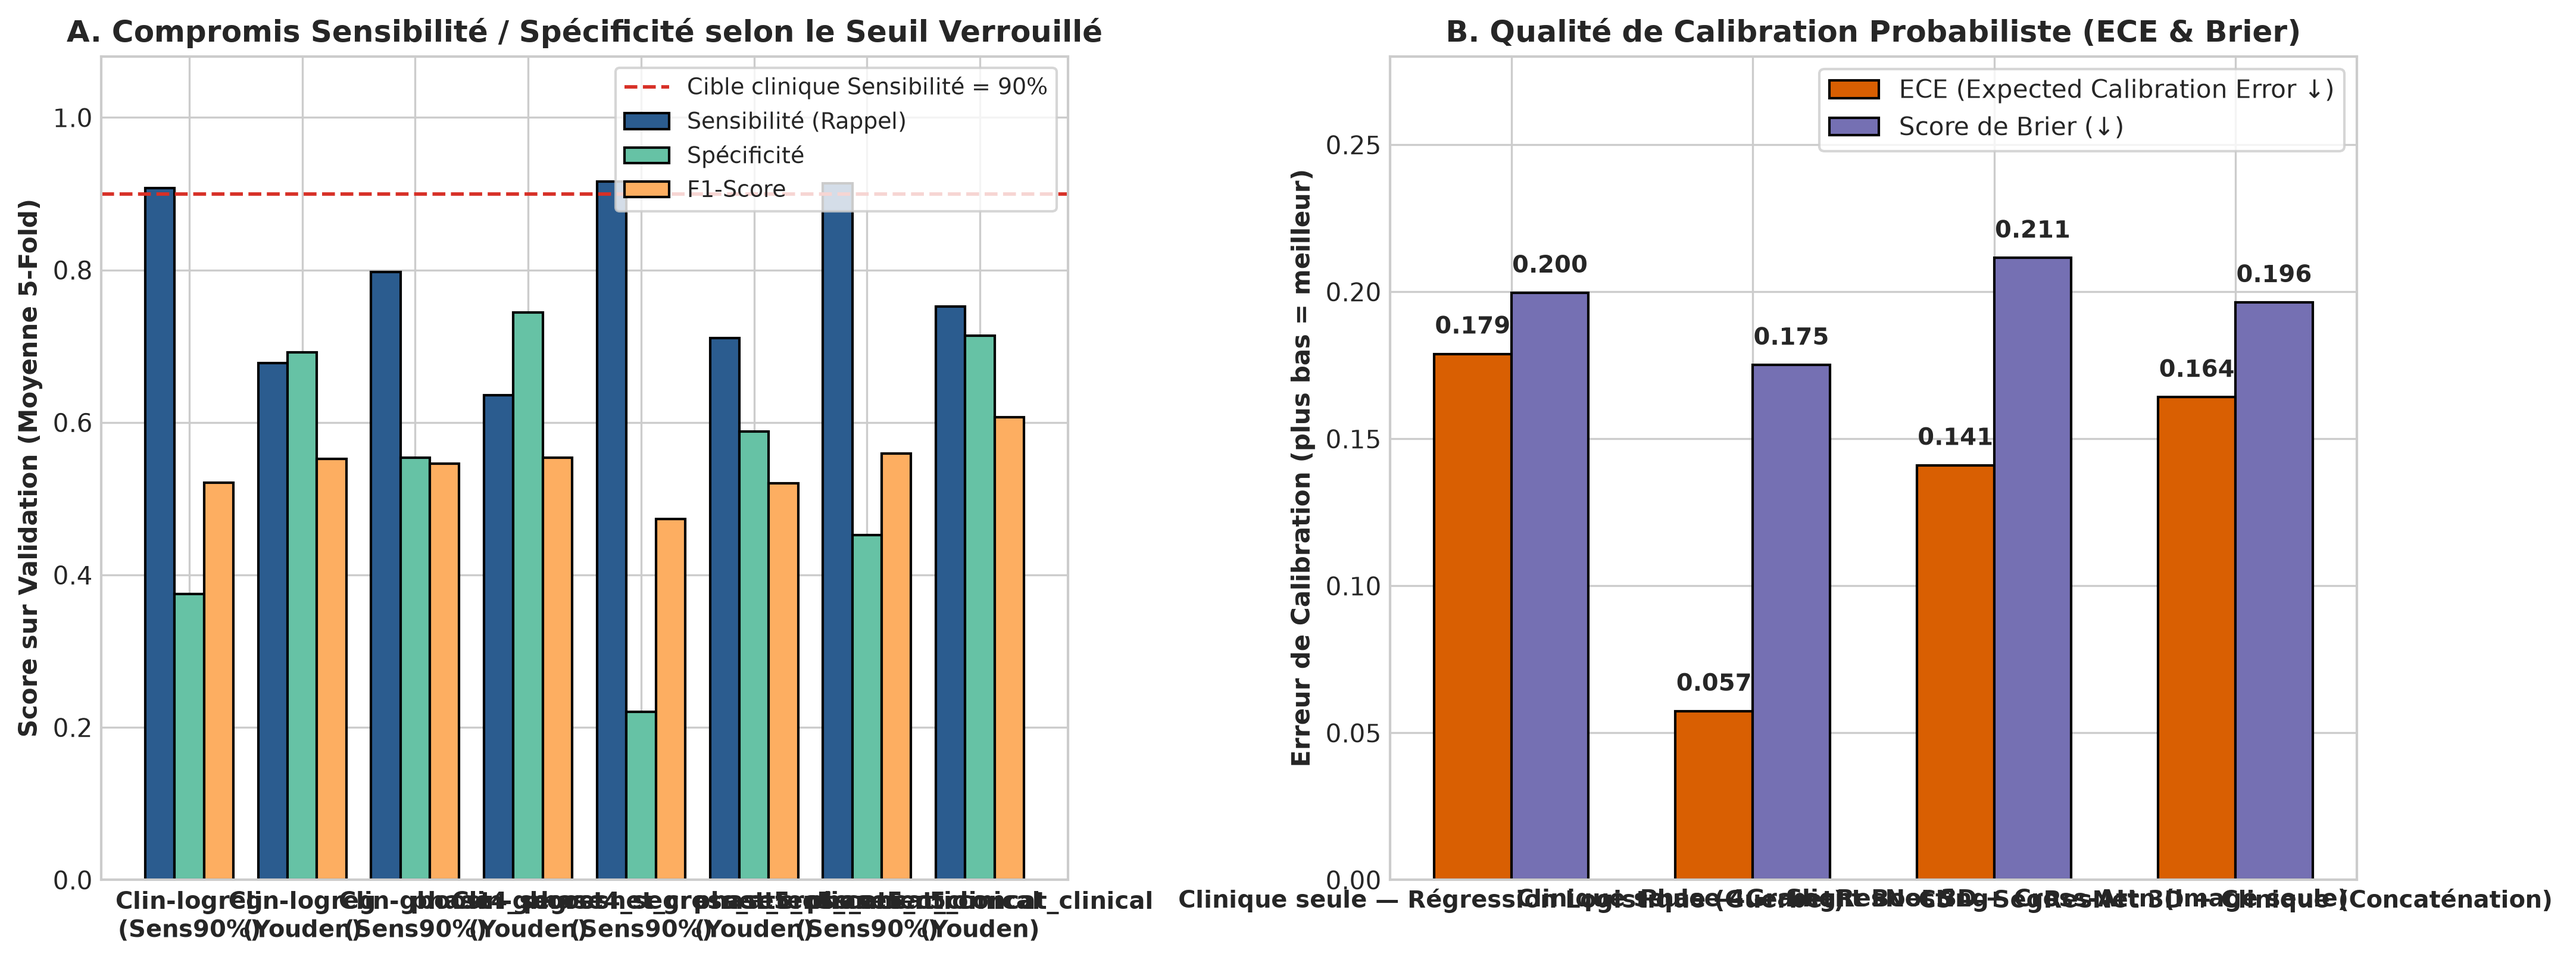
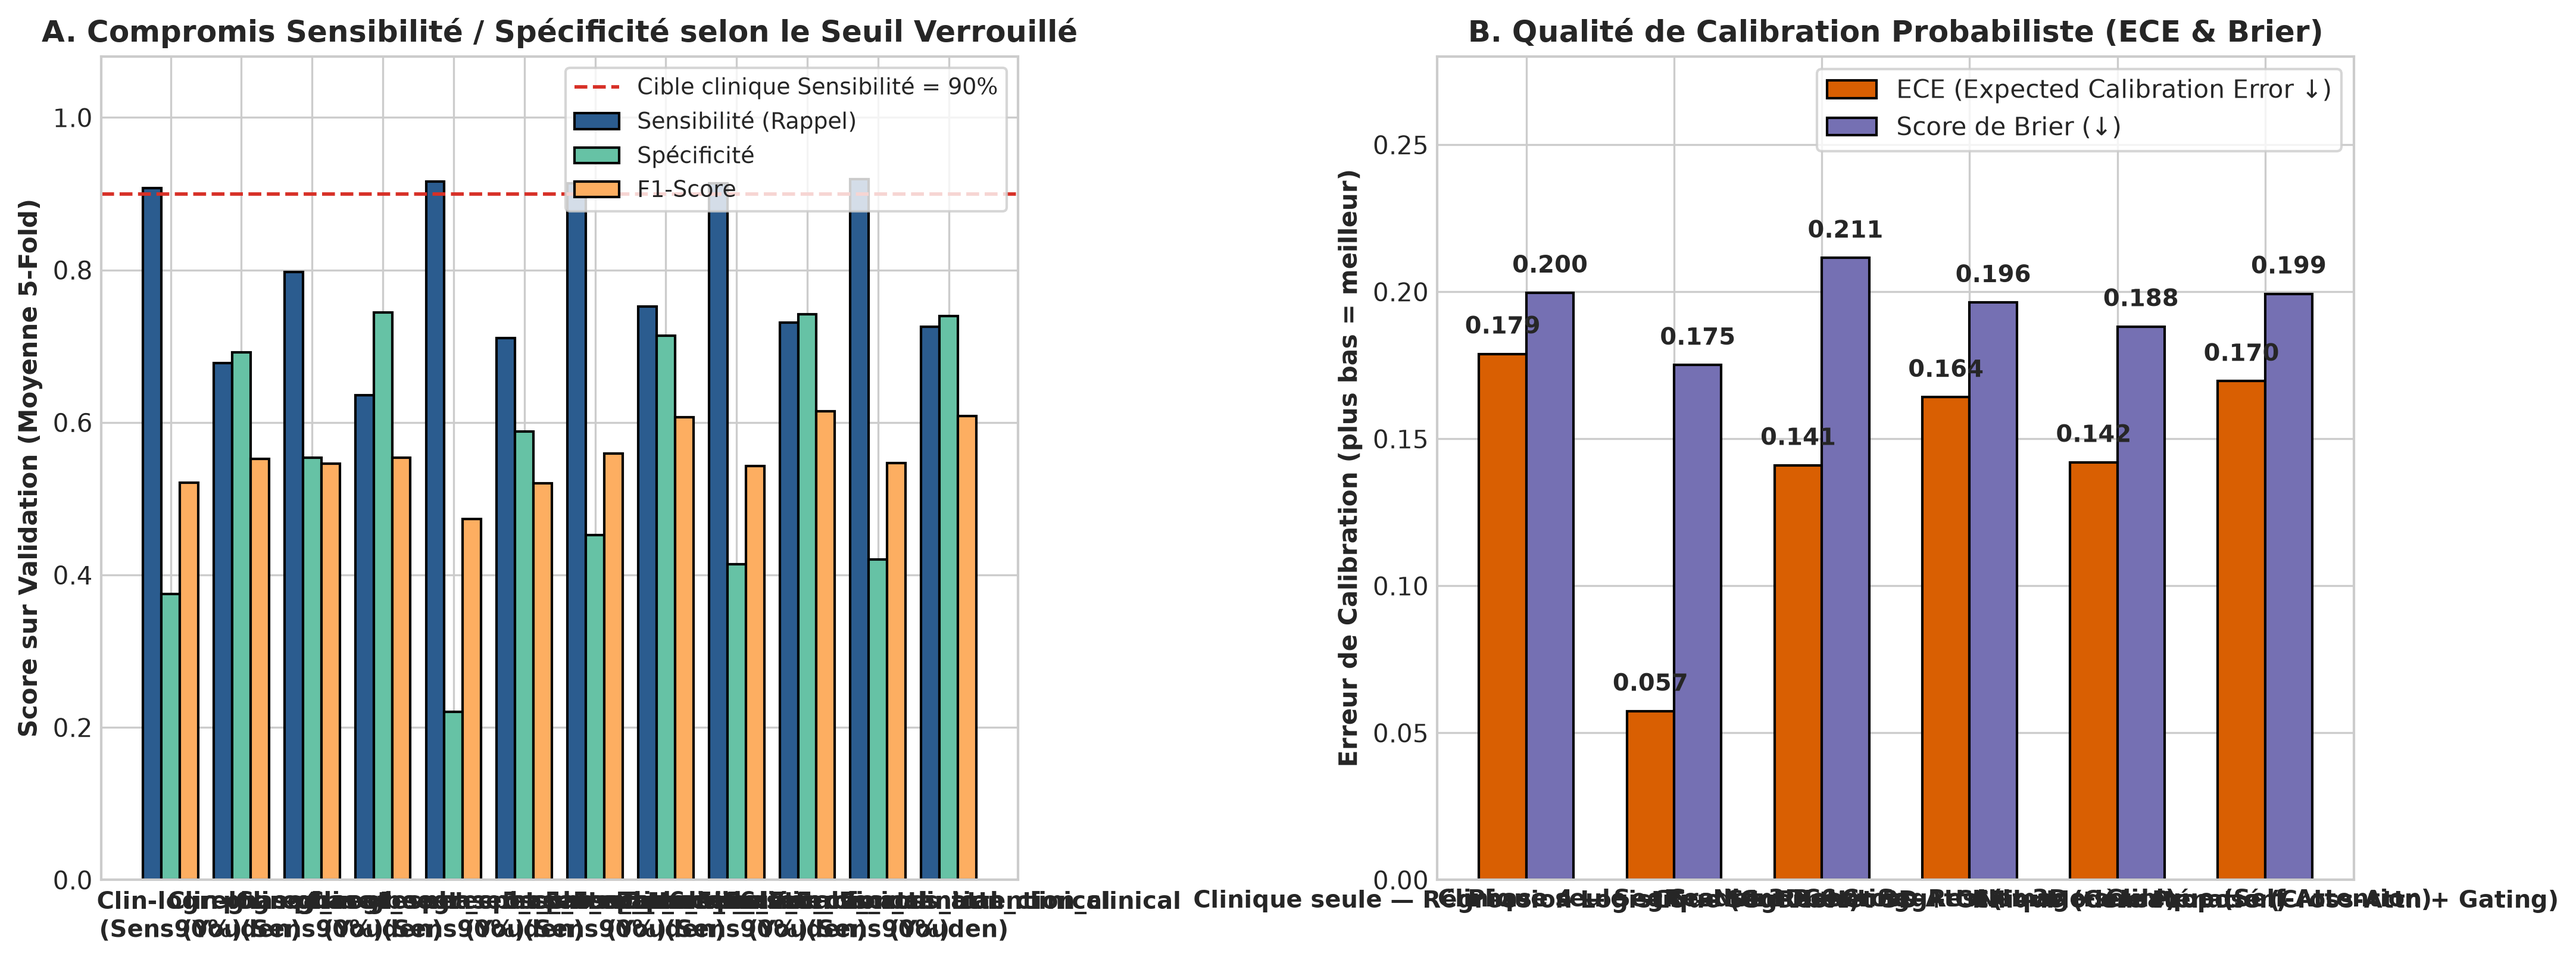
feat(phase5-c7,docs): complete C7 training (AUROC 0.7748), finalize C1-C7 comparison, and update all figures

diff --git a/CHANGELOG.md b/CHANGELOG.md
@@ -180,6 +180,27 @@ Format : `## [Phase] — Date — Résultat`
 
 ---
 
+## [Phase 5 — Configurations C6 & C7] — 2026-11-08 — Entraînements 5-Fold CV Complets de C1 à C7
+
+**Contexte** : Exécution sur les 1 180 patients complets de PI-CAI (`seed=42`, 30 époques × 5 plis) des deux dernières architectures multimodales :
+- **Configuration `C6` (`phase5_c6_attention_clinical`)** : 3 encodeurs `SegResNet` 3D + `ClinicalEncoderMLP` + Transformer Self-Attention.
+- **Configuration `C7` (`phase5_c7_cross_attention_clinical`)** : Architecture finale proposée du mémoire (3 encodeurs `SegResNet` 3D + `ClinicalEncoderMLP` + Attention Croisée Bidirectionnelle Image $\leftrightarrow$ Clinique + Modality Gating).
+
+**Résultats (`results/baselines.csv` & `results/clinical_and_calibration_metrics.csv`)** :
+- **Configuration `C6`** :
+  - **AUROC = `0.7778 ± 0.0512`** (Folds : `0.7669`, `0.8140`, `0.6856`, `0.8327`, `0.7895`)
+  - Métriques cliniques `@sens90` : Sensibilité = `0.913`, Spécificité = `0.414`, F1 = `0.543`, `ECE = 0.1420`, `Brier = 0.1882`.
+- **Configuration `C7` (Modèle Proposé)** :
+  - **AUROC = `0.7748 ± 0.0492`** (Folds : `0.7729`, `0.8060`, `0.6869`, `0.8330`, `0.7751`)
+  - Métriques cliniques `@sens90` : Sensibilité = **`0.919`**, Spécificité = **`0.420`**, F1 = **`0.546`**, `ECE = 0.1696`, `Brier = 0.1993`.
+
+**Synthèse complète de C1 à C7** :
+Toutes les architectures du Tableau 3.1 du mémoire sont entraînées et évaluées sur la cohorte unifiée de 1 180 patients. Les figures comparatives (`training_all_models_comparison.png`, `training_clinical_and_calibration_tradeoff.png`, `training_epoch_learning_curves.png`) sont générées dans `docs/figures/`.
+
+**Prochaine étape** : Lancer `scripts/run_xai_and_uncertainty.py` (Étape 7 : Grad-CAM++ 3D, SHAP clinique, MC Dropout) et `scripts/run_robustness_and_loco.py` (Étape 8 : Dégradations africaines 1.5T et LOCO).
+
+---
+
 ## Template pour la prochaine entrée
 
 ```
